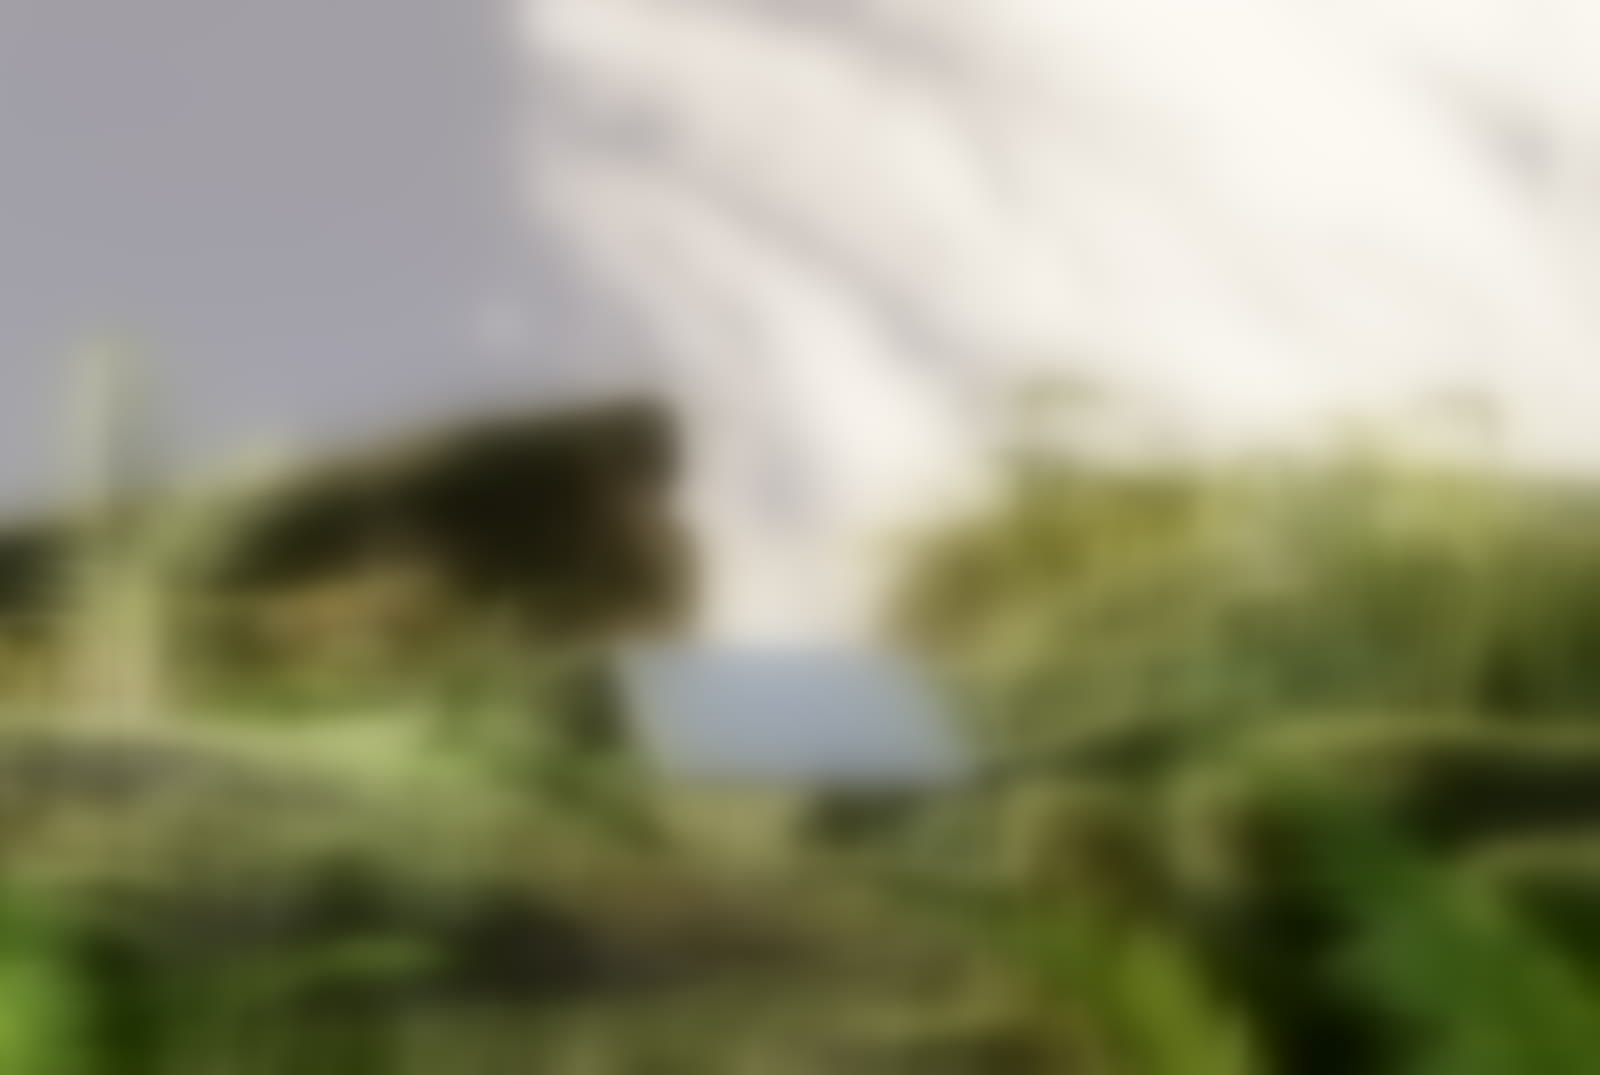
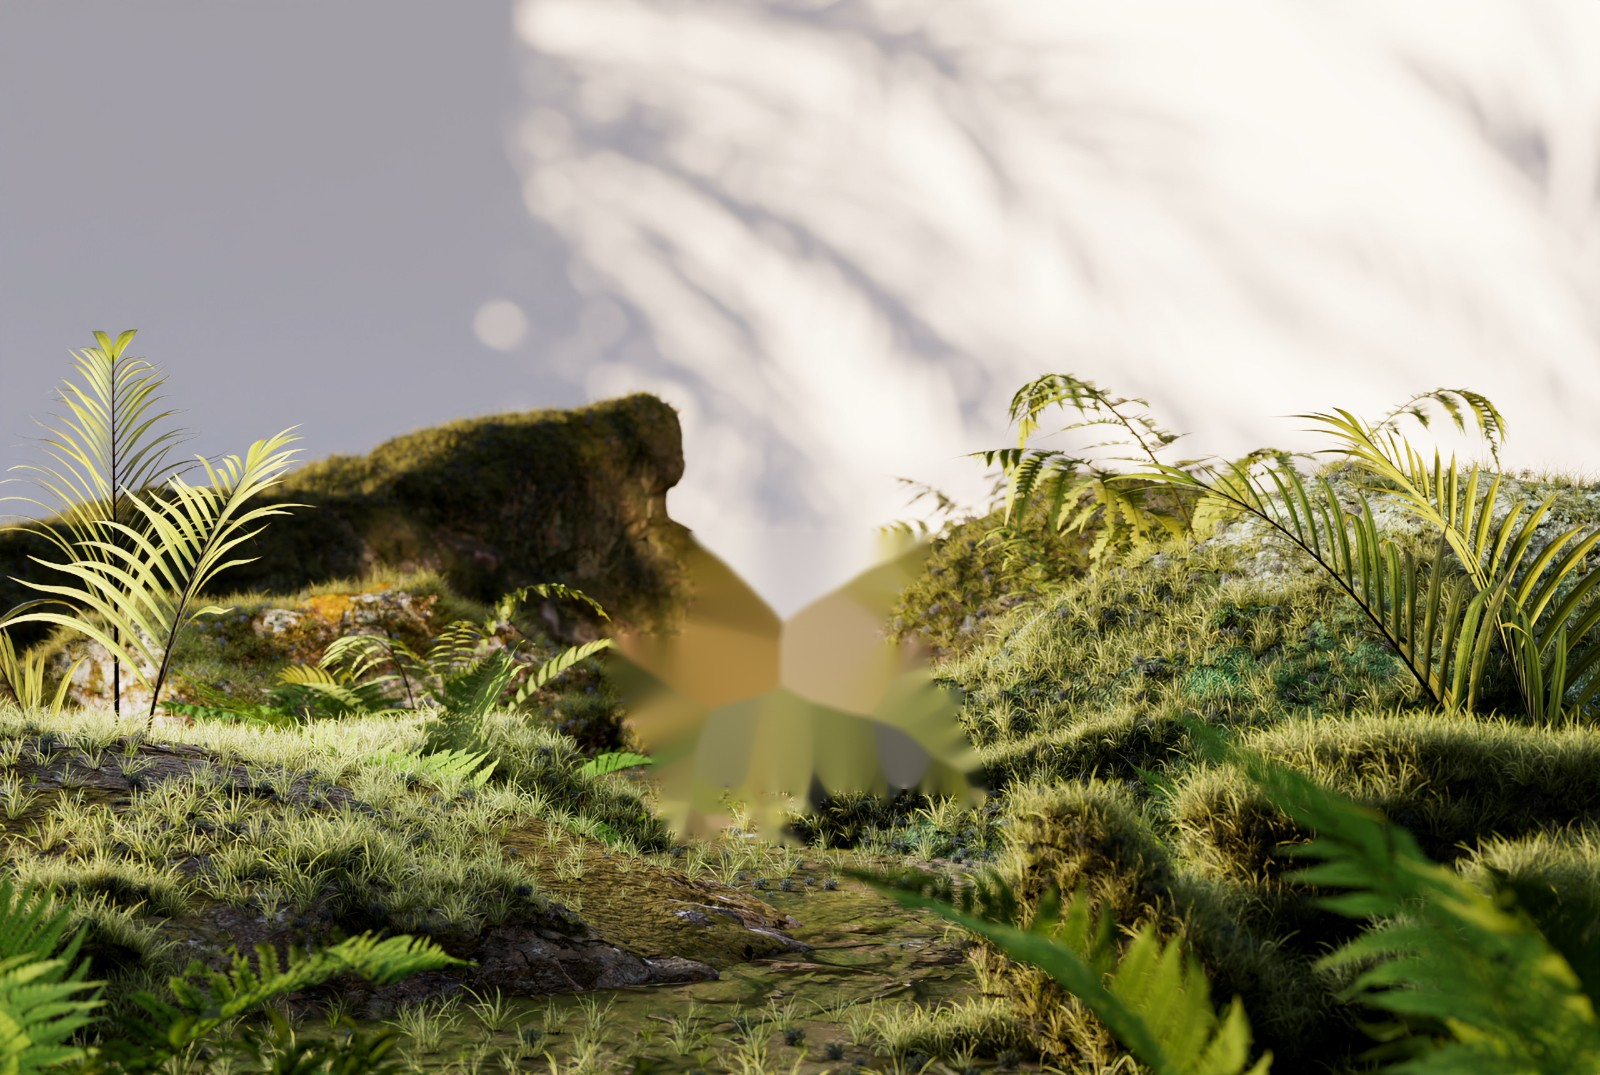
showcase: sharp floral backdrop (laptop inpainted out), cursor parallax, lid-opening animation

diff --git a/js/macbook.js b/js/macbook.js
@@ -137,9 +137,13 @@
     bar.position.set(0, 0.03, 0);
     hinge.add(bar);
 
-    // open the lid (lean back from vertical)
-    const OPEN = -0.30; // radians back-tilt
-    hinge.rotation.x = OPEN;
+    // lid opening animation — start folded shut, swing open when in view
+    const OPEN = -0.30;   // open back-tilt (radians)
+    const CLOSED = 1.52;  // folded flat over the keyboard
+    const LID_DUR = 1.5;  // seconds to open
+    const easeOutCubic = (x) => 1 - Math.pow(1 - x, 3);
+    let wantOpen = true, lidStart = null;
+    hinge.rotation.x = CLOSED;
 
     // recentre the whole assembly in view
     laptop.position.set(0, -0.55, 0.2);
@@ -174,6 +178,7 @@
         tY = (e.clientY / window.innerHeight) * 2 - 1;
       }, { passive: true });
     }
+    const floral = stage.querySelector(".showcase__floral");
 
     /* ── Resize ── */
     function resize() {
@@ -201,6 +206,19 @@
       const time = t * 0.001;
       pointerX += (tX - pointerX) * 0.05;
       pointerY += (tY - pointerY) * 0.05;
+
+      // lid opening animation (runs once, the first time the scene is on screen)
+      if (wantOpen) {
+        if (lidStart === null) lidStart = time;
+        const p = Math.min(1, (time - lidStart) / LID_DUR);
+        hinge.rotation.x = CLOSED + (OPEN - CLOSED) * easeOutCubic(p);
+      }
+
+      // floral backdrop reacts to the cursor (parallax)
+      if (floral) {
+        floral.style.transform =
+          `scale(1.14) translate3d(${(-pointerX * 2.4).toFixed(2)}%, ${(-pointerY * 1.6).toFixed(2)}%, 0)`;
+      }
 
       // gentle float + auto sway + pointer parallax (never a full spin, screen stays toward camera)
       laptop.rotation.y = Math.sin(time * 0.32) * 0.28 + pointerX * 0.45;

diff --git a/css/styles.css b/css/styles.css
@@ -318,7 +318,7 @@ body::after {
 .showcase { padding: 0 0 clamp(4rem, 9vw, 7rem); margin-top: clamp(1rem, 3vw, 2rem); }
 .showcase__stage { position: relative; height: min(82svh, 780px); }
 .showcase__canvas { width: 100%; height: 100%; display: block; touch-action: pan-y; }
-.showcase__floral { position: absolute; inset: 0; width: 100%; height: 100%; object-fit: cover; z-index: 0; }
+.showcase__floral { position: absolute; inset: 0; width: 100%; height: 100%; object-fit: cover; z-index: 0; transform: scale(1.14); will-change: transform; }
 .showcase__glow {
   position: absolute; left: 50%; bottom: 11%;
   width: 44%; height: 70px; transform: translateX(-50%);